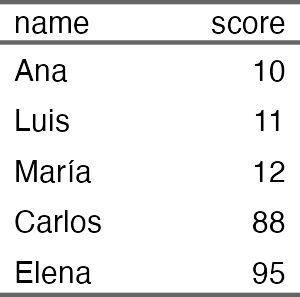
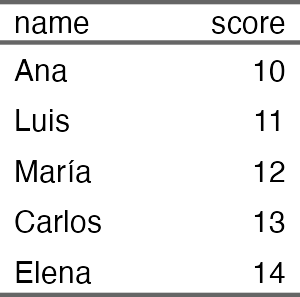
R PIA SQL

Changed region(s): [[0.84, 0.8788, 0.96, 0.9697], [0.84, 0.697, 0.96, 0.7879]]

diff --git a/PIA/R_SQL.md b/PIA/R_SQL.md
@@ -28,7 +28,7 @@ con <- dbConnect(
   port     = 3306,
   user     = "root", #colocar usario MySQL
   password = rstudioapi::askForPassword("MySQL password"), #Ventana emergente para solicitar password
-  dbname   = "STUDENTS_PERFORMANCE_DB" #Cambiar aqui por la base de datos que se desea conectar
+  dbname   = "StudentsPerformance_OfficialDB" #Cambiar aqui por la base de datos que se desea conectar
 )
 ```
 
@@ -93,7 +93,7 @@ Mousinho da Silveira
 
 ``` r
 califs <- dbGetQuery(con, "SELECT * FROM Grades")
-knitr::kable(califs)
+knitr::kable(head(califs))
 ```
 
 | student_id | course_id |  G1 |  G2 |  G3 |
@@ -104,17 +104,13 @@ knitr::kable(califs)
 |          2 |         2 |   9 |  11 |  11 |
 |          3 |         1 |   7 |   8 |  10 |
 |          3 |         2 |  12 |  13 |  12 |
-|          4 |         1 |  15 |  14 |  15 |
-|          4 |         2 |  14 |  14 |  14 |
-|          5 |         1 |   6 |  10 |  10 |
-|          5 |         2 |  11 |  13 |  13 |
 
 ``` r
 res <- dbGetQuery(con, "
   SELECT student_id, course_id, G3
   FROM Grades
-  WHERE G3 > 0
-  LIMIT 50
+  WHERE G3 > 15
+  LIMIT 10
 ")
 
 flextable(res)
@@ -147,7 +143,7 @@ flextable(dbGetQuery(con, "SELECT * FROM scores"))
 ``` r
 new_df <- data.frame(
   name = c("Carlos", "Elena"),
-  score = c(88, 95)
+  score = c(13, 14)
 )
 
 dbWriteTable(con, "scores", new_df, append = TRUE)
